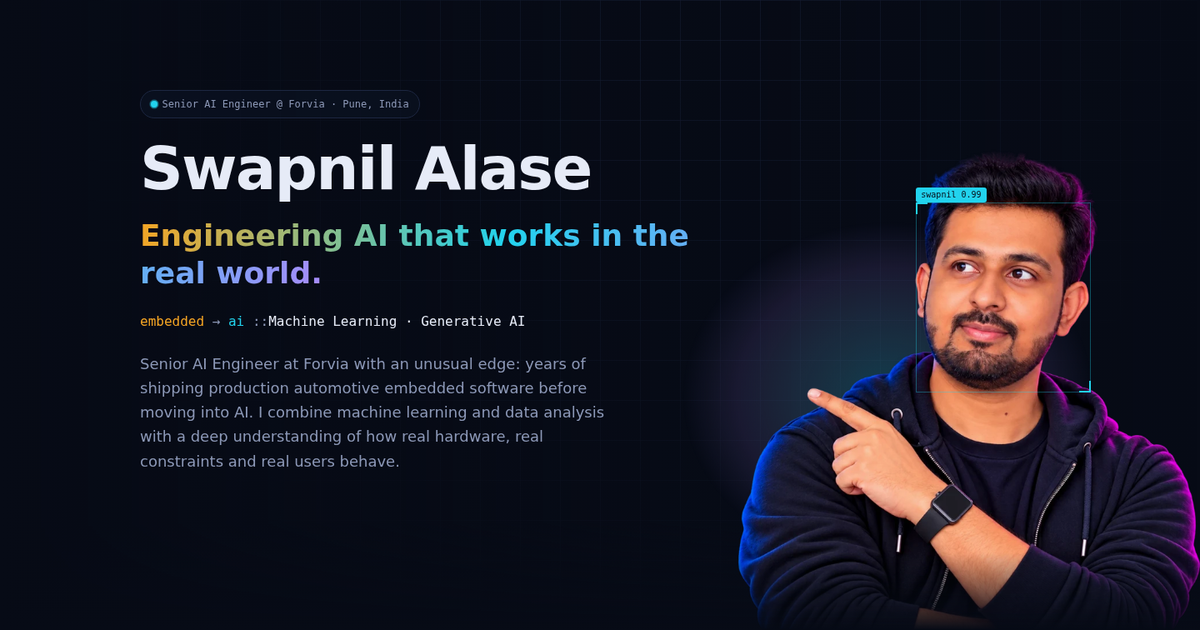
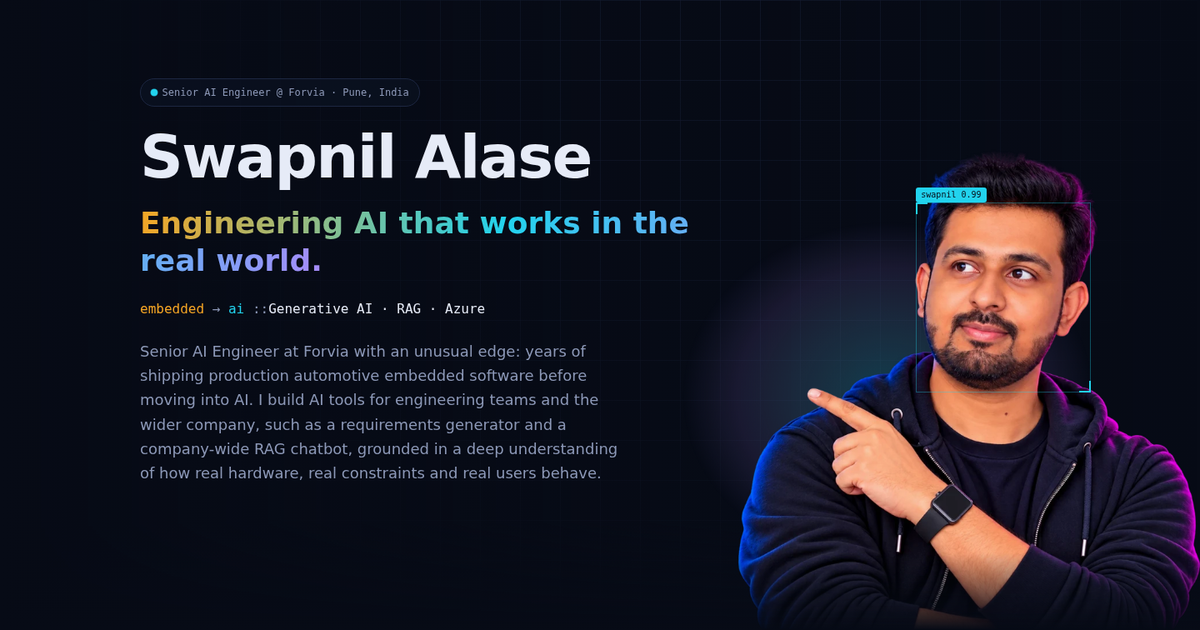
Rewrite Forvia AI team experience: Requirement Forge and company RAG chatbot
- Describe the actual work (Requirement Forge on Azure, company-wide RAG
  chatbot on Sinequa) instead of machine-learning/statistics wording
- Update hero summary, rotating words, About text and timeline to match
- Regenerate the link-preview image; neutral docs example

Claude-Session: https://claude.ai/code/session_01JGvRDvV2LdRbFyDFDb2Ad9

diff --git a/src/data/profile.ts b/src/data/profile.ts
@@ -17,22 +17,22 @@ export const profile = {
   /** Big hero headline + the rotating words under it. */
   headline: 'Engineering AI that works in the real world.',
   rotating: [
-    'Machine Learning',
-    'Data-driven products',
     'Generative AI',
-    'Automotive intelligence',
-    'Python · SQL · Statistics',
+    'RAG chatbots',
+    'AI on Azure',
+    'Requirements engineering',
+    'Automotive software',
   ],
 
   /** One paragraph used in the hero and for SEO/social previews. */
   summary:
-    'Senior AI Engineer at Forvia with an unusual edge: years of shipping production automotive embedded software before moving into AI. I combine machine learning and data analysis with a deep understanding of how real hardware, real constraints and real users behave.',
+    'Senior AI Engineer at Forvia with an unusual edge: years of shipping production automotive embedded software before moving into AI. I build AI tools for engineering teams and the wider company, such as a requirements generator and a company-wide RAG chatbot, grounded in a deep understanding of how real hardware, real constraints and real users behave.',
 
   /** "About" section — each string is a paragraph. */
   about: [
     'I started my career close to the metal — writing Embedded C, bringing up Bluetooth links between car radios and phones, and hardening infotainment systems for OEMs like Volvo, Renault, Mack Trucks and Stellantis.',
-    'Along the way I realised the most interesting problems were no longer just about moving bytes reliably, but about making systems that learn. So I moved into Forvia’s AI team and began an MS in Artificial Intelligence & Machine Learning (Scaler Neovarsity · Woolf University).',
-    'Today I work on AI while keeping the engineering discipline that embedded taught me: measure everything, respect constraints, and ship things that work in the real world. My focus now is Generative AI and machine learning: building AI systems that are reliable, measurable and useful in the real world.',
+    'Along the way I realised the most interesting problems were no longer just about moving bytes reliably, but about building software that can understand and assist. So I moved into Forvia’s AI team and began an MS in Artificial Intelligence & Machine Learning (Scaler Neovarsity · Woolf University).',
+    'Today I work on AI while keeping the engineering discipline that embedded taught me: measure everything, respect constraints, and ship things that work in the real world. My focus now is Generative AI: building AI systems that are reliable, measurable and useful in the real world.',
   ],
 
   email: 'swapnilalase07@gmail.com',
@@ -73,8 +73,8 @@ export const profile = {
     { stage: 'Foundation', title: 'Electronics & Telecommunication', text: 'Bachelor of Engineering, University of Pune. First published work: an IoT digital signage system on Raspberry Pi.', kind: 'embedded' },
     { stage: 'Specialise', title: 'Embedded Systems Design', text: 'PG-Diploma at CDAC Pune — microcontrollers, RTOS, communication protocols.', kind: 'embedded' },
     { stage: 'Ship', title: 'Automotive Embedded @ Forvia', text: 'Infotainment and Bluetooth software for global OEMs; led a small team on secure phone-to-radio communication.', kind: 'embedded' },
-    { stage: 'Transform', title: 'AI Team @ Forvia + MS in AI & ML', text: 'Internal move into AI. Machine learning, statistics and data analysis applied to automotive products.', kind: 'ai' },
-    { stage: 'Next', title: 'Generative AI', text: 'Focused on Generative AI and machine learning, bringing embedded-grade engineering discipline to AI systems.', kind: 'next' },
+    { stage: 'Transform', title: 'AI Team @ Forvia + MS in AI & ML', text: 'Internal move into AI: building a requirements-generation tool (Requirement Forge) and a company-wide RAG chatbot.', kind: 'ai' },
+    { stage: 'Next', title: 'Generative AI', text: 'Focused on Generative AI, bringing embedded-grade engineering discipline to AI systems.', kind: 'next' },
   ],
 } as const;
 
@@ -99,20 +99,18 @@ export const experience: Job[] = [
     location: 'Pune, India',
     track: 'ai',
     headline:
-      'Internal transfer into Forvia’s AI team — applying machine learning and data analysis to automotive software products.',
+      'Internal transfer into Forvia’s AI team — building AI tools for engineering teams and for the whole company.',
     roles: [
       {
         title: 'Senior AI Engineer',
-        // TODO (Swapnil): replace these with 3–4 REAL impact bullets from your AI work.
-        // Formula: <action verb> + <what you built> + <tech> + <measurable result>.
-        // e.g. 'Built a Python pipeline that classifies X from vehicle logs, cutting triage time by 40%.'
+        // TODO (Swapnil): add real results when you have them (number of users/teams, time saved, adoption). Only real numbers.
         points: [
-          'Applying machine learning and statistical analysis to automotive and infotainment data.',
-          'Bringing production-engineering discipline from automotive software to AI development.',
+          'Built Requirement Forge with the AI team: a tool, built on Azure, that turns stakeholder requirements into system requirements. It generates the corner cases that are easily missed, so developers start from a more complete set of requirements.',
+          'Developed a RAG-based chatbot for the entire company on Sinequa, so everyone can use and understand the data held across the company.',
         ],
       },
     ],
-    tech: ['Python', 'SQL', 'Pandas', 'NumPy', 'Scikit-learn', 'Statistics', 'Data Visualization'],
+    tech: ['Azure', 'Sinequa', 'RAG', 'Generative AI', 'Requirements engineering'],
   },
   {
     company: 'Forvia (formerly Faurecia)',

diff --git a/EDITING.md b/EDITING.md
@@ -25,7 +25,7 @@ If the build fails (red ✗ in Actions), open the failed run and read the error;
 ### 🔴 TODO for you
 In `experience` → the Forvia **AI Team** entry → `points`: replace the two general bullets with **3–4 concrete bullets about your real AI work**.
 Formula: *action verb + what you built + tech + measurable result*.
-> e.g. "Built a Python pipeline that classifies infotainment test logs with scikit-learn, cutting manual triage time by 40%."
+> e.g. "Built an internal assistant on <tool> used by <N> teams, cutting the time spent searching for information by <X>%." (use only real numbers)
 
 ## 2. Add your photo
 1. Upload a square photo to `public/images/` (e.g. `profile.jpg`, ~600×600): *Add file → Upload files*.
